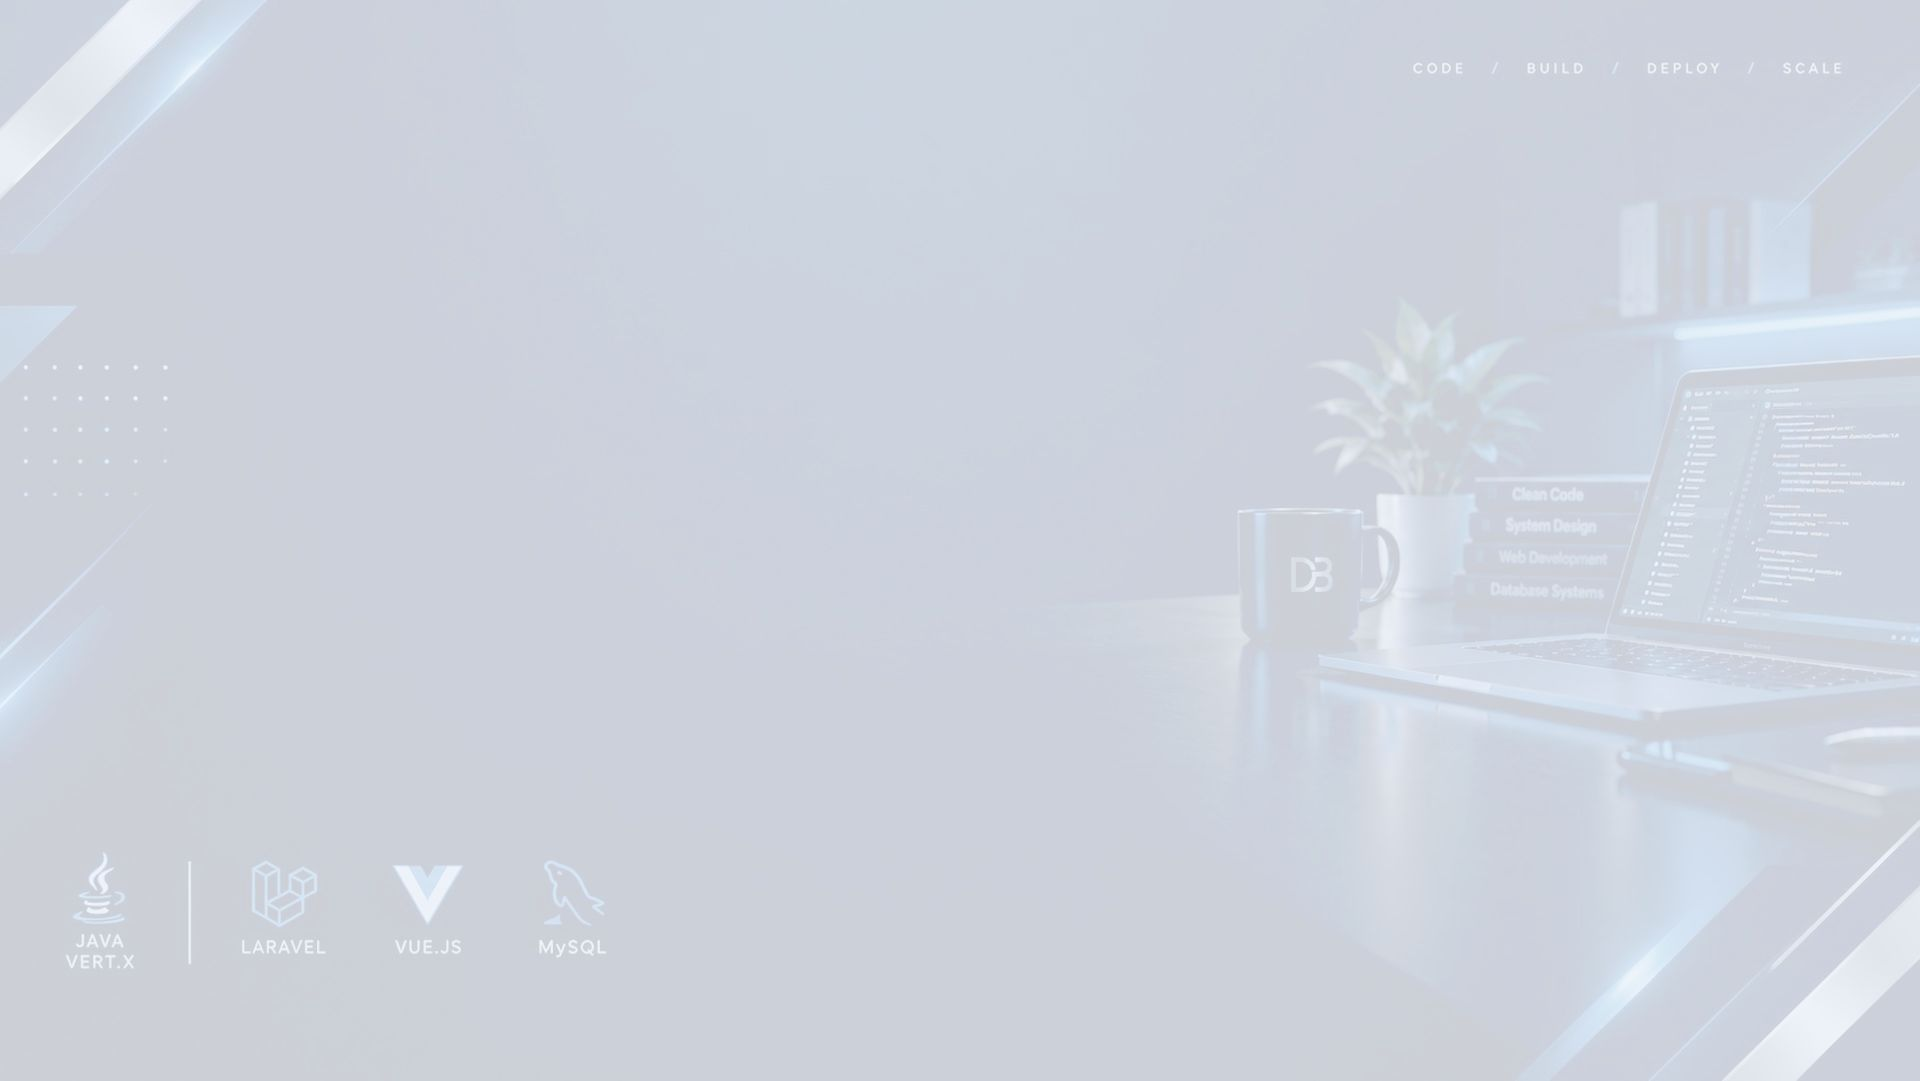
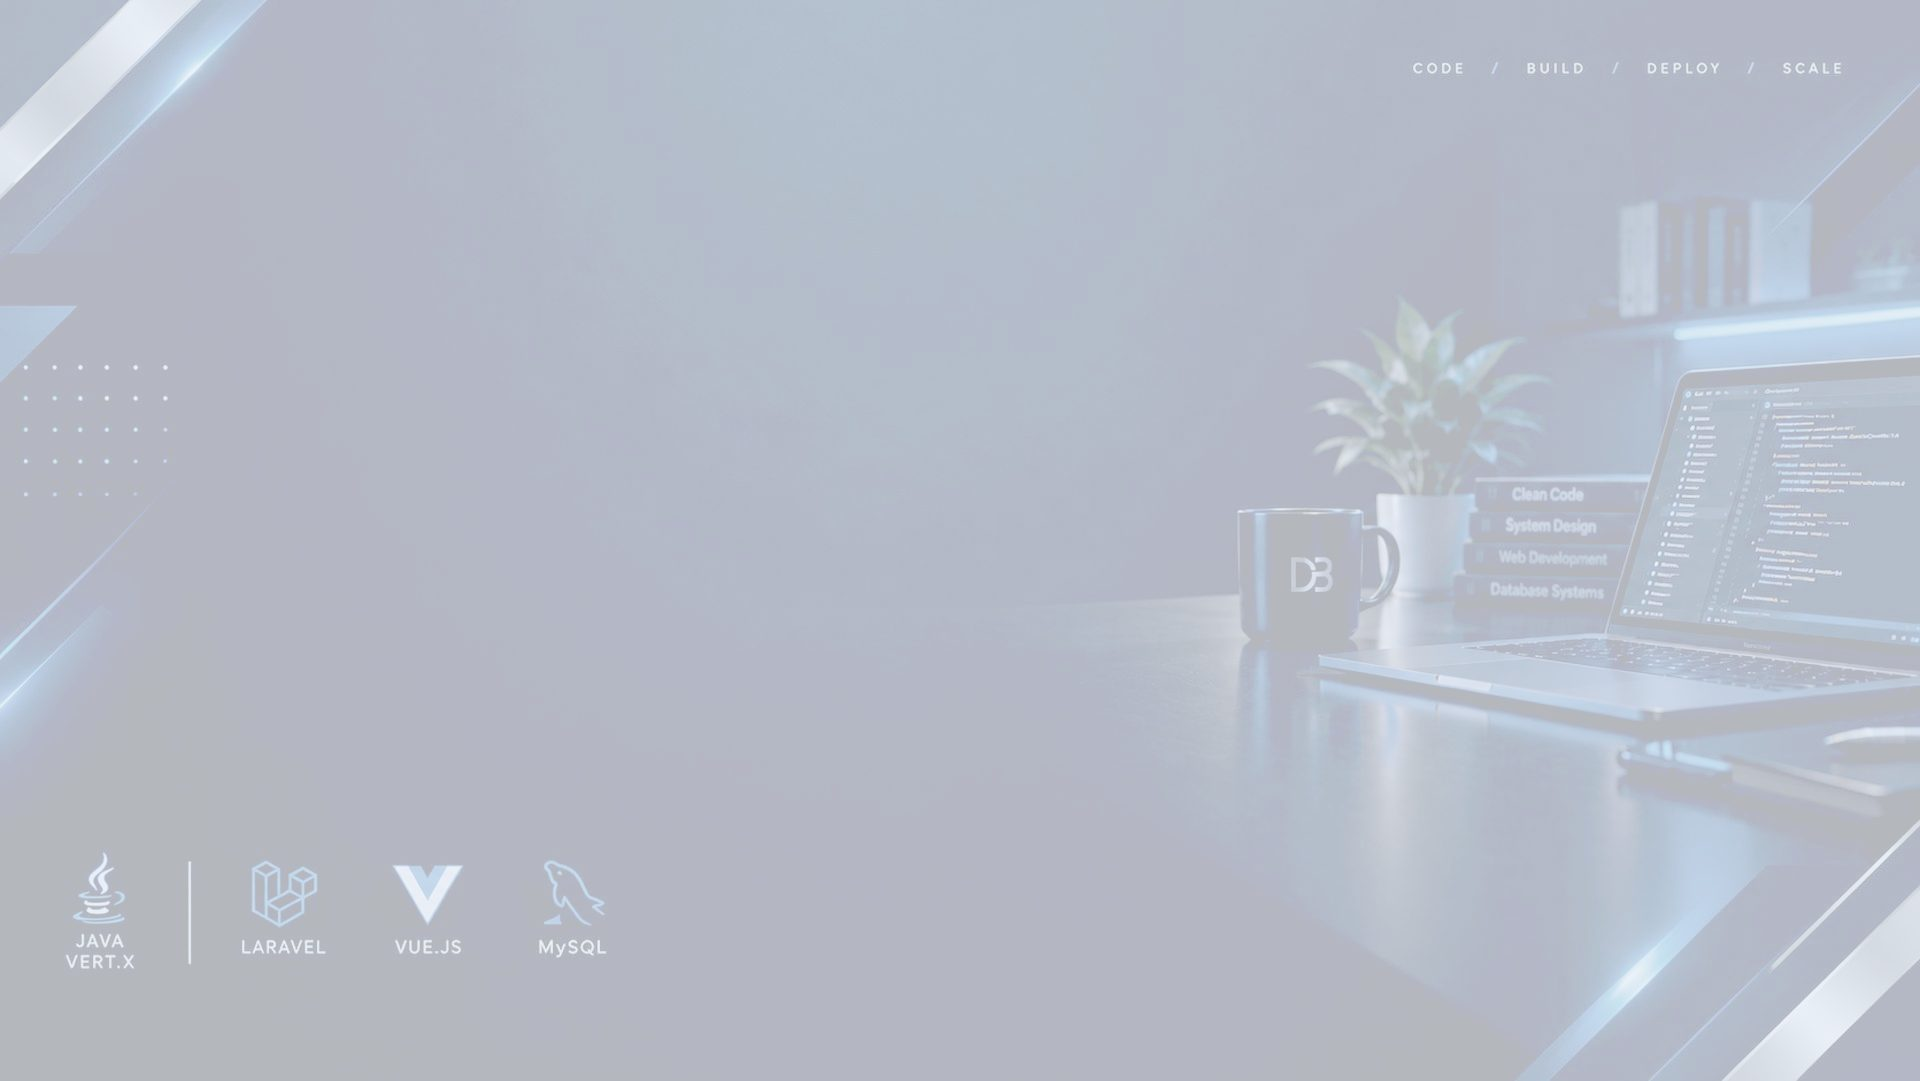
Stronger light-mode hero, reliable card image loading with retry

diff --git a/index.html b/index.html
@@ -78,6 +78,8 @@
         [data-theme="light"] .i-sun { display: none; }
         :root:not([data-theme="light"]) .i-moon { display: none; }
         .theme-anim, .theme-anim * { transition: background-color .3s ease, color .3s ease, border-color .3s ease !important; }
+        [data-theme="light"] .hero-overlay { background-image: linear-gradient(to right, rgb(var(--slate-950) / .82), rgb(var(--slate-950) / .5) 45%, rgb(var(--slate-950) / .05)); }
+        @media (min-width: 640px) { [data-theme="light"] .hero-overlay { background-image: linear-gradient(to right, rgb(var(--slate-950) / .68), rgb(var(--slate-950) / .22) 50%, transparent); } }
         .caret { display: inline-block; margin-left: 2px; animation: blink 1s steps(1) infinite; }
         @keyframes blink { 50% { opacity: 0; } }
         .tech-logo i { filter: grayscale(1) brightness(1.15); transition: filter .3s, transform .3s; }
@@ -143,7 +145,7 @@
     <section class="min-h-screen flex items-center pt-24 pb-16 px-4 sm:px-6 relative overflow-hidden">
         <img src="img/hero-bg.jpg" alt="" aria-hidden="true" width="1920" height="1078" fetchpriority="high" class="only-dark absolute inset-0 w-full h-full object-cover object-[75%_center] sm:object-center opacity-80 pointer-events-none select-none">
         <img src="img/hero-bg-light.jpg" alt="" aria-hidden="true" width="1920" height="1078" loading="lazy" class="only-light absolute inset-0 w-full h-full object-cover object-[75%_center] sm:object-center pointer-events-none select-none">
-        <div class="absolute inset-0 bg-gradient-to-r from-slate-950/90 via-slate-950/65 to-slate-950/25 sm:from-slate-950/75 sm:via-slate-950/30 sm:to-transparent pointer-events-none"></div>
+        <div class="hero-overlay absolute inset-0 bg-gradient-to-r from-slate-950/90 via-slate-950/65 to-slate-950/25 sm:from-slate-950/75 sm:via-slate-950/30 sm:to-transparent pointer-events-none"></div>
         <div class="absolute inset-x-0 bottom-0 h-32 bg-gradient-to-t from-slate-950 to-transparent pointer-events-none"></div>
 
 
@@ -336,9 +338,9 @@
                 <!-- BioPay -->
                 <div class="bg-slate-900/60 border border-slate-800/80 rounded-xl p-5 sm:p-6 flex flex-col justify-between hover:border-slate-700 transition-all duration-300 hover:-translate-y-1 hover:shadow-xl hover:shadow-black/30 group">
                     <div>
-                <a href="https://biopay.africa" target="_blank" rel="noopener noreferrer" tabindex="-1" aria-label="Open BioPay" class="relative block -mx-5 -mt-5 sm:-mx-6 sm:-mt-6 mb-5 rounded-t-xl overflow-hidden border-b border-slate-800/80">
+                <a href="https://biopay.africa" target="_blank" rel="noopener noreferrer" tabindex="-1" aria-label="Open BioPay" class="relative block bg-slate-800 -mx-5 -mt-5 sm:-mx-6 sm:-mt-6 mb-5 rounded-t-xl overflow-hidden border-b border-slate-800/80">
                     <span class="absolute top-2 right-2 z-10 inline-flex items-center gap-1.5 px-2 py-0.5 rounded-full bg-slate-950/80 border border-slate-700 text-[10px] font-mono font-semibold text-white"><span class="w-1.5 h-1.5 rounded-full bg-emerald-400"></span>Live</span>
-                    <img src="img/biopay.jpg" alt="Screenshot of the BioPay website" width="800" height="450" loading="lazy" class="w-full aspect-video object-cover object-top group-hover:scale-[1.03] transition-transform duration-500">
+                    <img src="img/biopay.jpg" alt="Screenshot of the BioPay website" width="800" height="450" loading="eager" decoding="async" class="w-full aspect-video object-cover object-top group-hover:scale-[1.03] transition-transform duration-500">
                 </a>
                         <div class="flex justify-between items-start mb-4">
                             <h5 class="text-xl font-bold text-white group-hover:text-brand-500 transition-colors">BioPay</h5>
@@ -366,9 +368,9 @@
                 <!-- Derrick Gallery -->
                 <div class="bg-slate-900/60 border border-slate-800/80 rounded-xl p-5 sm:p-6 flex flex-col justify-between hover:border-slate-700 transition-all duration-300 hover:-translate-y-1 hover:shadow-xl hover:shadow-black/30 group">
                     <div>
-                <a href="https://automoti.site" target="_blank" rel="noopener noreferrer" tabindex="-1" aria-label="Open Derrick Gallery" class="relative block -mx-5 -mt-5 sm:-mx-6 sm:-mt-6 mb-5 rounded-t-xl overflow-hidden border-b border-slate-800/80">
+                <a href="https://automoti.site" target="_blank" rel="noopener noreferrer" tabindex="-1" aria-label="Open Derrick Gallery" class="relative block bg-slate-800 -mx-5 -mt-5 sm:-mx-6 sm:-mt-6 mb-5 rounded-t-xl overflow-hidden border-b border-slate-800/80">
                     <span class="absolute top-2 right-2 z-10 inline-flex items-center gap-1.5 px-2 py-0.5 rounded-full bg-slate-950/80 border border-slate-700 text-[10px] font-mono font-semibold text-white"><span class="w-1.5 h-1.5 rounded-full bg-emerald-400"></span>Live</span>
-                    <img src="img/automoti.jpg" alt="Screenshot of the Derrick Gallery website" width="800" height="450" loading="lazy" class="w-full aspect-video object-cover object-top group-hover:scale-[1.03] transition-transform duration-500">
+                    <img src="img/automoti.jpg" alt="Screenshot of the Derrick Gallery website" width="800" height="450" loading="eager" decoding="async" class="w-full aspect-video object-cover object-top group-hover:scale-[1.03] transition-transform duration-500">
                 </a>
                         <div class="flex justify-between items-start mb-4">
                             <h5 class="text-xl font-bold text-white group-hover:text-brand-500 transition-colors">Derrick Gallery</h5>
@@ -396,9 +398,9 @@
                 <!-- RemitCore -->
                 <div class="bg-slate-900/60 border border-slate-800/80 rounded-xl p-5 sm:p-6 flex flex-col justify-between hover:border-slate-700 transition-all duration-300 hover:-translate-y-1 hover:shadow-xl hover:shadow-black/30 group">
                     <div>
-                <a href="https://remitcore.com" target="_blank" rel="noopener noreferrer" tabindex="-1" aria-label="Open RemitCore" class="relative block -mx-5 -mt-5 sm:-mx-6 sm:-mt-6 mb-5 rounded-t-xl overflow-hidden border-b border-slate-800/80">
+                <a href="https://remitcore.com" target="_blank" rel="noopener noreferrer" tabindex="-1" aria-label="Open RemitCore" class="relative block bg-slate-800 -mx-5 -mt-5 sm:-mx-6 sm:-mt-6 mb-5 rounded-t-xl overflow-hidden border-b border-slate-800/80">
                     <span class="absolute top-2 right-2 z-10 inline-flex items-center gap-1.5 px-2 py-0.5 rounded-full bg-slate-950/80 border border-slate-700 text-[10px] font-mono font-semibold text-white"><span class="w-1.5 h-1.5 rounded-full bg-emerald-400"></span>Live</span>
-                    <img src="img/remitcore.jpg" alt="Screenshot of the RemitCore website" width="800" height="450" loading="lazy" class="w-full aspect-video object-cover object-top group-hover:scale-[1.03] transition-transform duration-500">
+                    <img src="img/remitcore.jpg" alt="Screenshot of the RemitCore website" width="800" height="450" loading="eager" decoding="async" class="w-full aspect-video object-cover object-top group-hover:scale-[1.03] transition-transform duration-500">
                 </a>
                         <div class="flex justify-between items-start mb-4">
                             <h5 class="text-xl font-bold text-white group-hover:text-brand-500 transition-colors">RemitCore</h5>
@@ -426,9 +428,9 @@
                 <!-- Salaryd -->
                 <div class="bg-slate-900/60 border border-slate-800/80 rounded-xl p-5 sm:p-6 flex flex-col justify-between hover:border-slate-700 transition-all duration-300 hover:-translate-y-1 hover:shadow-xl hover:shadow-black/30 group">
                     <div>
-                <a href="https://salaryd.com" target="_blank" rel="noopener noreferrer" tabindex="-1" aria-label="Open Salaryd" class="relative block -mx-5 -mt-5 sm:-mx-6 sm:-mt-6 mb-5 rounded-t-xl overflow-hidden border-b border-slate-800/80">
+                <a href="https://salaryd.com" target="_blank" rel="noopener noreferrer" tabindex="-1" aria-label="Open Salaryd" class="relative block bg-slate-800 -mx-5 -mt-5 sm:-mx-6 sm:-mt-6 mb-5 rounded-t-xl overflow-hidden border-b border-slate-800/80">
                     <span class="absolute top-2 right-2 z-10 inline-flex items-center gap-1.5 px-2 py-0.5 rounded-full bg-slate-950/80 border border-slate-700 text-[10px] font-mono font-semibold text-white"><span class="w-1.5 h-1.5 rounded-full bg-emerald-400"></span>Live</span>
-                    <img src="img/salaryd.jpg" alt="Screenshot of the Salaryd website" width="800" height="450" loading="lazy" class="w-full aspect-video object-cover object-top group-hover:scale-[1.03] transition-transform duration-500">
+                    <img src="img/salaryd.jpg" alt="Screenshot of the Salaryd website" width="800" height="450" loading="eager" decoding="async" class="w-full aspect-video object-cover object-top group-hover:scale-[1.03] transition-transform duration-500">
                 </a>
                         <div class="flex justify-between items-start mb-4">
                             <h5 class="text-xl font-bold text-white group-hover:text-brand-500 transition-colors">Salaryd</h5>
@@ -457,9 +459,9 @@
                 <!-- CountComply -->
                 <div class="bg-slate-900/60 border border-slate-800/80 rounded-xl p-5 sm:p-6 flex flex-col justify-between hover:border-slate-700 transition-all duration-300 hover:-translate-y-1 hover:shadow-xl hover:shadow-black/30 group">
                     <div>
-                <a href="https://www.countcomply.com" target="_blank" rel="noopener noreferrer" tabindex="-1" aria-label="Open CountComply" class="relative block -mx-5 -mt-5 sm:-mx-6 sm:-mt-6 mb-5 rounded-t-xl overflow-hidden border-b border-slate-800/80">
+                <a href="https://www.countcomply.com" target="_blank" rel="noopener noreferrer" tabindex="-1" aria-label="Open CountComply" class="relative block bg-slate-800 -mx-5 -mt-5 sm:-mx-6 sm:-mt-6 mb-5 rounded-t-xl overflow-hidden border-b border-slate-800/80">
                     <span class="absolute top-2 right-2 z-10 inline-flex items-center gap-1.5 px-2 py-0.5 rounded-full bg-slate-950/80 border border-slate-700 text-[10px] font-mono font-semibold text-white"><span class="w-1.5 h-1.5 rounded-full bg-emerald-400"></span>Live</span>
-                    <img src="img/countcomply.jpg" alt="Screenshot of the CountComply website" width="800" height="450" loading="lazy" class="w-full aspect-video object-cover object-top group-hover:scale-[1.03] transition-transform duration-500">
+                    <img src="img/countcomply.jpg" alt="Screenshot of the CountComply website" width="800" height="450" loading="eager" decoding="async" class="w-full aspect-video object-cover object-top group-hover:scale-[1.03] transition-transform duration-500">
                 </a>
                         <div class="flex justify-between items-start mb-4">
                             <h5 class="text-xl font-bold text-white group-hover:text-brand-500 transition-colors">CountComply</h5>
@@ -661,6 +663,26 @@
             try { localStorage.setItem('theme', next); } catch (e) {}
             syncThemeUi();
             setTimeout(() => root.classList.remove('theme-anim'), 400);
+        });
+
+        // Make sure every image loads: retry a failed one a few times with a cache-buster
+        function retryImage(img, attempt) {
+            attempt = attempt || 0;
+            if (attempt >= 3) return;
+            const base = img.getAttribute('src').split('?')[0];
+            setTimeout(() => {
+                img.onerror = () => retryImage(img, attempt + 1);
+                img.src = base + '?r=' + (attempt + 1);
+            }, 800 * (attempt + 1));
+        }
+        document.querySelectorAll('img[src^="img/"]').forEach(img => {
+            img.addEventListener('error', () => retryImage(img, 0), { once: true });
+            if (img.complete && img.naturalWidth === 0 && img.getAttribute('src')) retryImage(img, 0);
+        });
+        window.addEventListener('pageshow', () => {
+            document.querySelectorAll('img[src^="img/"]').forEach(img => {
+                if (img.complete && img.naturalWidth === 0) retryImage(img, 0);
+            });
         });
 
         // Warm the cache with the light hero so the first switch is instant
